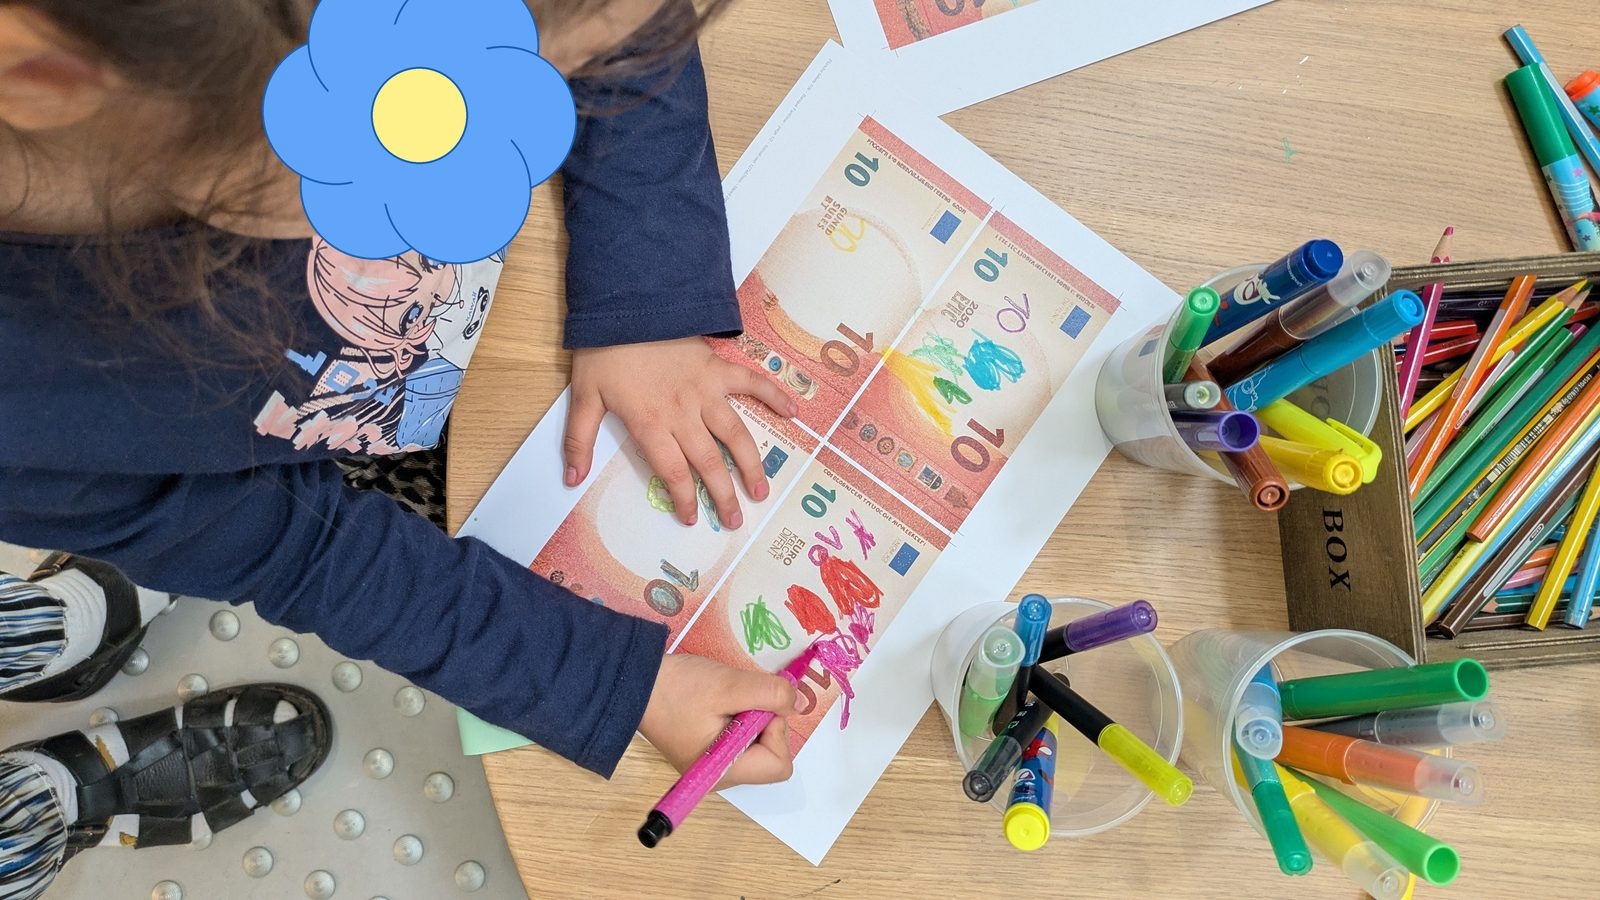
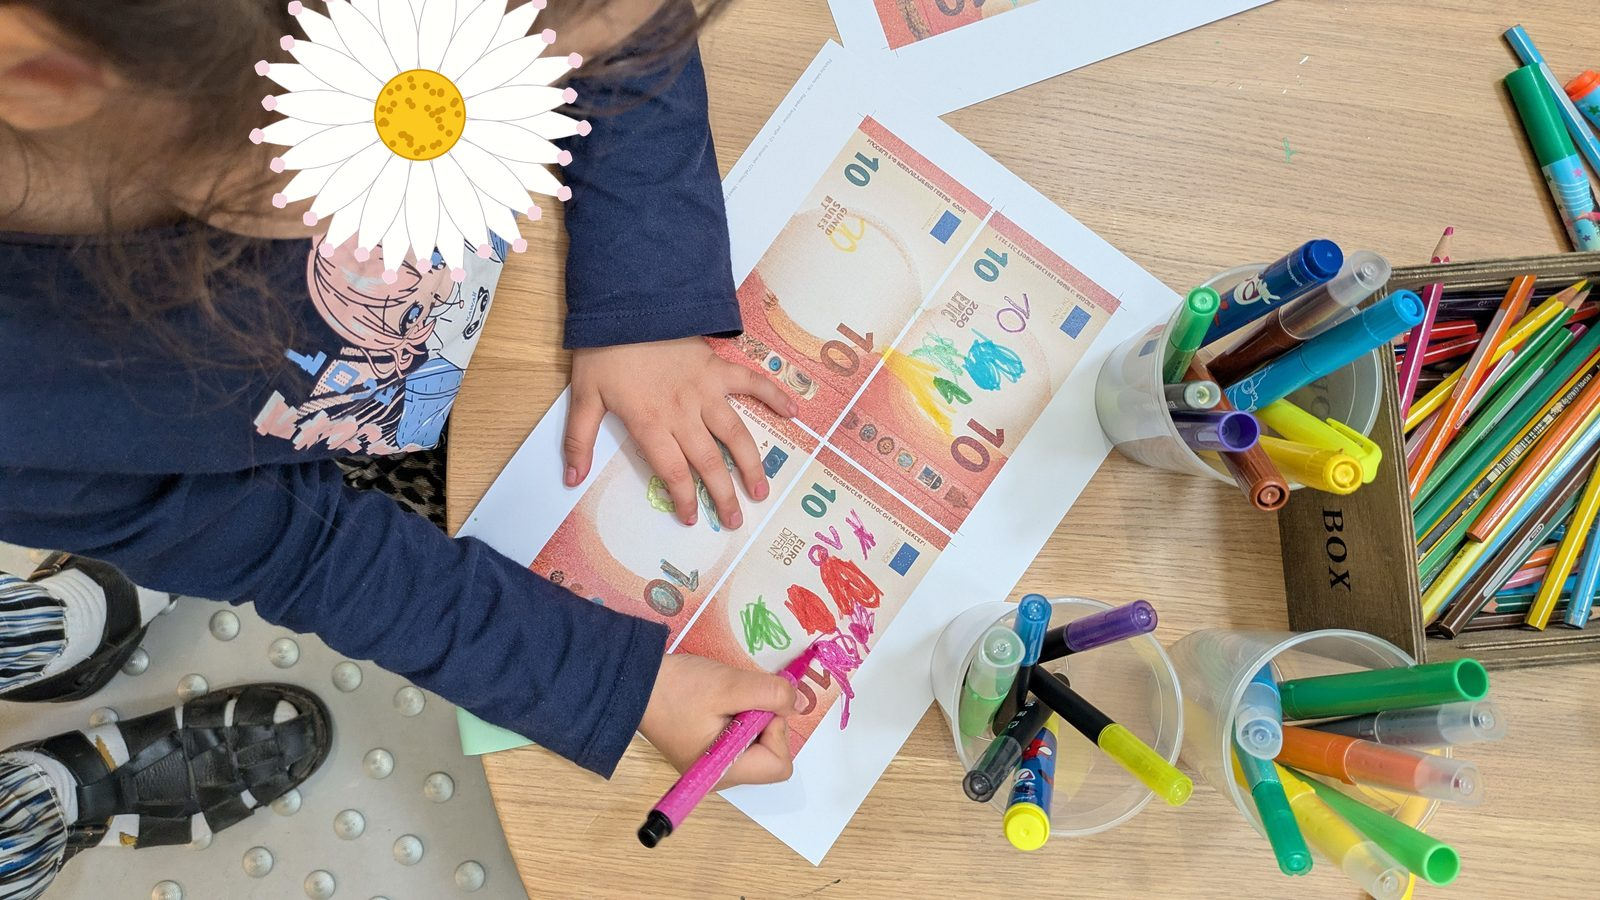
Banque Fantome : paquerettes sur les visages, apercu de la lettre visible
Les fleurs des photos d'actu deviennent des paquerettes (demande de Jiiji).
Admin, onglet Lettre : l'apercu met souvent une minute (l'IA ecrit
l'ouverture) et s'affichait hors de l'ecran sans rien dire. Un message
pendant l'attente, puis la page descend jusqu'a la lettre.

Claude-Session: https://claude.ai/code/session_01Tkrxj8H7AkAZhWvWCL1Kqv

Changed region(s): [[0.1562, 0.0, 0.375, 0.3111]]

diff --git a/banque-fantome/src/pages/Admin.jsx b/banque-fantome/src/pages/Admin.jsx
@@ -1,4 +1,4 @@
-import { useEffect, useMemo, useState } from 'react'
+import { useEffect, useMemo, useRef, useState } from 'react'
 import { Link } from 'react-router-dom'
 import { supabase } from '../lib/supabase'
 import { useAuth } from '../components/AuthContext'
@@ -409,6 +409,13 @@ function OngletLettre({ onNotif, depuis }) {
   const [aSupprimer, setASupprimer] = useState(null)
   const [busy, setBusy] = useState(null) // nom de l'action en cours
   const [recharge, setRecharge] = useState(0)
+  const apercuRef = useRef(null)
+
+  // L'aperçu s'affiche sous les boutons, souvent hors de l'écran : on y descend
+  // (2026-10-12, Jiiji ne le voyait pas apparaître)
+  useEffect(() => {
+    if (apercu) apercuRef.current?.scrollIntoView({ behavior: 'smooth', block: 'start' })
+  }, [apercu])
 
   useEffect(() => {
     supabase.from('lettre_reglages').select('*').eq('id', 1).maybeSingle()
@@ -444,6 +451,7 @@ function OngletLettre({ onNotif, depuis }) {
 
   async function voirApercu() {
     if (mot !== (reglages?.mot || '') && !(await majReglages({ mot: mot.trim() || null }))) return
+    setApercu(null)
     const r = await lancer('apercu')
     if (r) setApercu(r)
   }
@@ -538,7 +546,7 @@ function OngletLettre({ onNotif, depuis }) {
       <div className="admin-barre">
         <div className="admin-actions" style={{ justifyContent: 'flex-start' }}>
           {mot !== (reglages.mot || '') && <button type="button" className="btn btn-noir btn-sm" onClick={() => majReglages({ mot: mot.trim() || null }).then(ok => ok && onNotif({ msg: 'Mot enregistré pour la prochaine lettre.', type: 'ok' }))}>Enregistrer le mot</button>}
-          <button type="button" className="btn btn-outline btn-sm" disabled={!!busy} onClick={voirApercu}>{busy === 'apercu' ? '…' : "Voir l'aperçu"}</button>
+          <button type="button" className="btn btn-outline btn-sm" disabled={!!busy} onClick={voirApercu}>{busy === 'apercu' ? 'Aperçu en préparation…' : "Voir l'aperçu"}</button>
         </div>
         <div className="admin-actions">
           <input className="admin-motif" type="email" placeholder="Test à (vide = la banque)" value={emailTest} onChange={e => setEmailTest(e.target.value)} />
@@ -551,8 +559,14 @@ function OngletLettre({ onNotif, depuis }) {
             : <button type="button" className="btn btn-jaune btn-sm" disabled={!!busy || !actifs.length} onClick={() => setConfirmEnvoi(true)}>{busy === 'envoyer' ? 'Envoi en cours…' : `Envoyer maintenant à ${actifs.length}`}</button>}
         </div>
       </div>
+      {busy === 'apercu' && (
+        <p className="texte-aide">
+          L'IA écrit l'ouverture de la lettre à partir des actus : ça prend souvent une minute.
+          L'aperçu s'affichera juste ici.
+        </p>
+      )}
       {apercu && (
-        <div>
+        <div ref={apercuRef}>
           <div className="caption-gris" style={{ marginBottom: '.5rem' }}>
             {apercu.vide
               ? 'Rien à raconter pour l\'instant : aucune actu publiée depuis la dernière lettre, et pas de mot. Elle ne partirait pas.'
